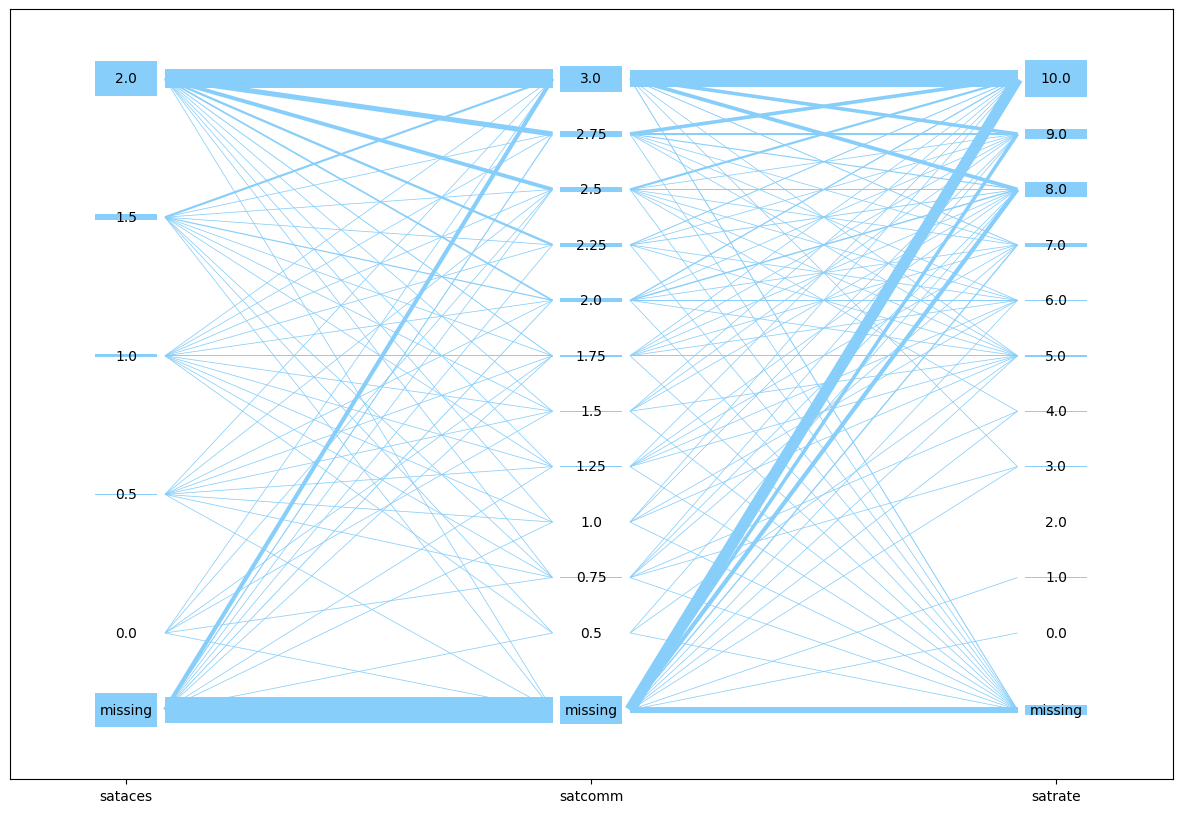
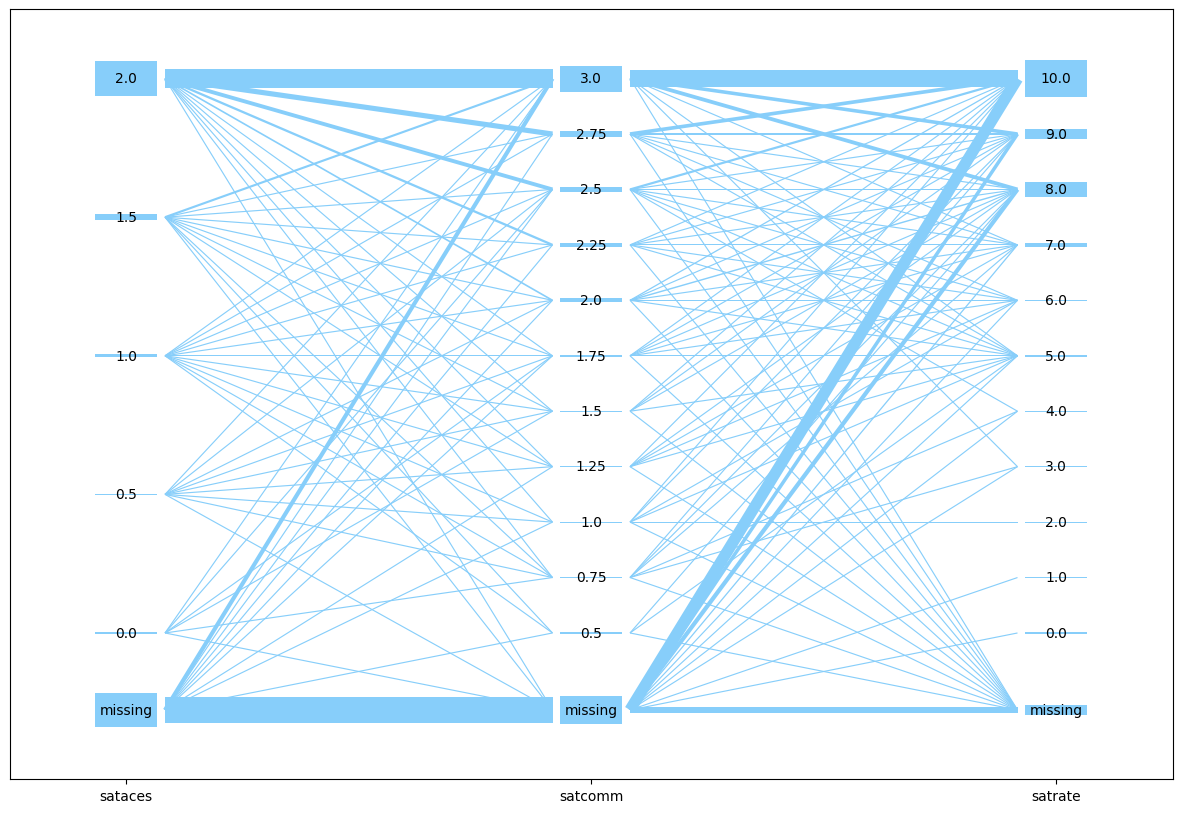
Update readme images

diff --git a/README.md b/README.md
@@ -45,7 +45,7 @@ Minimal example of a hammock plot:
 ```python
 var = ["hospitalizations","group","gender","comorbidities"]
 hammock = hammock_plot.Hammock(data_df = df)
-ax = hammock.plot(var=var)
+ax = hammock.plot(var=var, min_bar_width=0.11)
 ```
 <img src="image/asthma_minimal.png" alt="Minimal example for a Hammock plot" width="600"/>
 
@@ -56,7 +56,7 @@ var = ["hospitalizations","group","gender","comorbidities"]
 group_dict= {1: "child", 2: "adolescent",3: "adult"}
 value_order = {"group": group_dict}
 hammock = hammock_plot.Hammock(data_df = df)
-ax = hammock.plot(var=var, value_order=value_order )
+ax = hammock.plot(var=var, value_order=value_order, min_bar_width=0.11)
 ```
 
 <!--- to restrict image size, I am using a an html command, rather than the standard ![](image.png) --->
@@ -66,7 +66,7 @@ ax = hammock.plot(var=var, value_order=value_order )
 We highlight observations with comorbidities=0  in red:
 
 ```python
-ax = hammock.plot(var=var, value_order=value_order ,hi_var="comorbidities", hi_value=[0], color=["red"])
+ax = hammock.plot(var=var, value_order=value_order ,hi_var="comorbidities", hi_value=[0], color=["red"], min_bar_width=0.11)
 ```
 
 <!---   ![Hammock plot with highlighting](image/asthma_highlighting.png)    --->
@@ -87,7 +87,7 @@ The three variables represent different ordinal scales for satisfaction. We are 
 ```python
 var = ["sataces","satcomm","satrate"]
 hammock = hammock_plot.Hammock(data_df = df)
-ax = hammock.plot(var=var, missing=True) 
+ax = hammock.plot(var=var, missing=True, min_bar_width=0.15) 
 ```
 
 <img src="image/diabetes.png" alt="Hammock plot for the Diabetes Data" width="600"/>
